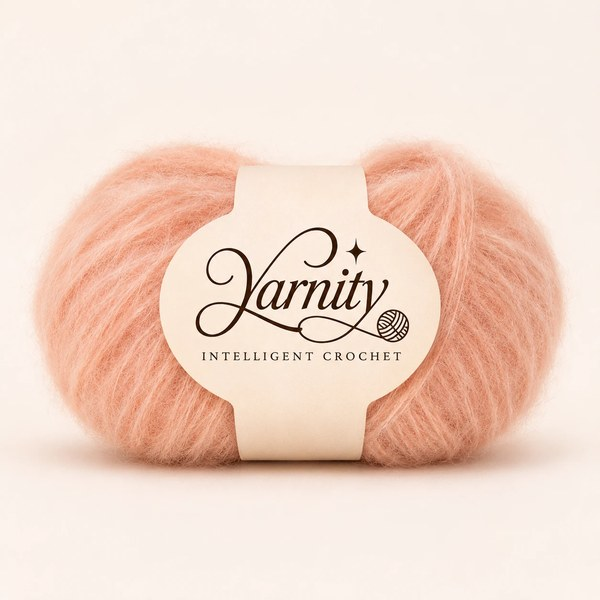
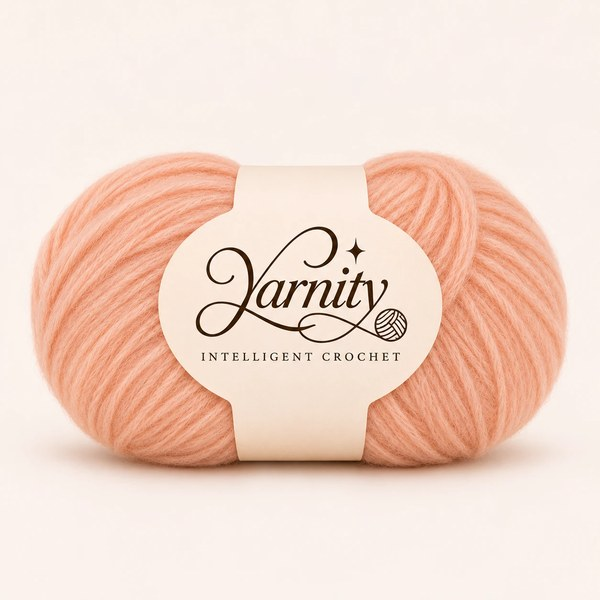
실 도감 (Kim): seven more ChatGPT-made yarn balls, padded to square in their own background; 부클레, 폴리에스터 and 수세미실 removed - 날개사 is the polyester scrubber yarn (text rewritten, 수세미 guide points to it)

diff --git a/src/data/dictionary/yarns.ts b/src/data/dictionary/yarns.ts
@@ -44,16 +44,11 @@ export const YARNS: Yarn[] = [
   {
     id: "acrylic", image: "/dictionary/yarns/acrylic.jpg", name: "아크릴", nameEn: "Acrylic", group: "synthetic", short: "저렴하고 관리가 쉬움", seasons: ["spring", "summer", "autumn", "winter"],
     traits: { warmth: 3, stretch: 3, softness: 3, care: 5, price: 1 },
-    about: "석유에서 만든 합성 섬유로 울과 비슷한 촉감을 냅니다. 값이 싸고 색이 다양하며, 세탁기에 빨아도 줄어들지 않아 연습용, 담요, 인형, 수세미실로 많이 씁니다.",
+    about: "석유에서 만든 합성 섬유로 울과 비슷한 촉감을 냅니다. 값이 싸고 색이 다양하며, 세탁기에 빨아도 줄어들지 않아 연습용, 담요, 인형으로 많이 씁니다.",
     caution: "열에 약해 다리미를 직접 대면 녹거나 광택이 죽습니다(스팀은 띄워서). 보풀과 정전기가 생기기 쉽고, 울만큼 숨을 쉬지 못해 오래 입으면 덥게 느껴질 수 있습니다.",
   },
 
-  {
-    id: "boucle", image: "/dictionary/yarns/boucle.jpg", name: "부클레", nameEn: "Bouclé", group: "special", short: "고리가 동글동글 맺힌 실", seasons: ["autumn", "winter"],
-    traits: { warmth: 4, stretch: 2, softness: 4, care: 2, price: 3 },
-    about: "실을 꼴 때 한 가닥을 느슨하게 넣어 작은 고리가 송글송글 맺히게 만든 실입니다. 단순한 뜨기만으로도 양털 같은 입체감이 나서 겉옷, 쿠션, 인형에 잘 어울립니다.",
-    caution: "고리 때문에 코가 잘 보이지 않고 바늘이 고리에 걸리기 쉬워 첫 작품에는 어렵습니다. 끝이 둥근 바늘을 쓰고, 코 수를 자주 셉니다. 한 번 뜬 것을 풀기도 어렵습니다.",
-  },
+
   {
     id: "silk", image: "/dictionary/yarns/silk.jpg", name: "실크", nameEn: "Silk", group: "animal", short: "은은한 광택, 매끄러움", seasons: ["spring", "autumn"],
     traits: { warmth: 3, stretch: 1, softness: 5, care: 1, price: 5 },
@@ -72,12 +67,7 @@ export const YARNS: Yarn[] = [
     about: "아주 질기고 잘 닳지 않는 합성 섬유입니다. 단독으로보다는 울에 20~25%쯤 섞어 양말실로 많이 쓰고, 신축성이 좋아 모양이 잘 돌아옵니다. 광택 있는 끈실로도 만들어집니다.",
     caution: "열에 약해 다리미를 직접 대면 녹을 수 있습니다. 땀을 잘 흡수하지 못해 100% 나일론 옷은 덥고 답답할 수 있습니다.",
   },
-  {
-    id: "polyester", image: "/dictionary/yarns/polyester.jpg", name: "폴리에스터", nameEn: "Polyester", group: "synthetic", short: "가볍고 형태가 잘 유지됨", seasons: ["spring", "summer", "autumn", "winter"],
-    traits: { warmth: 2, stretch: 2, softness: 3, care: 5, price: 1 },
-    about: "가장 흔한 합성 섬유로 가볍고 질기며 구김이 잘 가지 않습니다. 물을 머금지 않아 빨리 마르고, 형태가 잘 유지되어 가방실, 수세미실 등 여러 실의 재료가 됩니다. 재활용 페트병으로 만든 폴리에스터 실도 있습니다.",
-    caution: "열에 약해 높은 온도의 다리미나 건조기는 피합니다. 정전기가 잘 생기고, 땀을 흡수하지 못해 옷으로 입으면 덥게 느껴질 수 있습니다.",
-  },
+
   {
     id: "bamboo", image: "/dictionary/yarns/bamboo.jpg", name: "대나무", nameEn: "Bamboo (viscose)", group: "plant", short: "시원하고 실크처럼 매끄러움", seasons: ["spring", "summer"],
     traits: { warmth: 1, stretch: 1, softness: 5, care: 3, price: 3 },
@@ -85,9 +75,9 @@ export const YARNS: Yarn[] = [
     caution: "물에 젖으면 약해지고 무거워져 편물이 늘어나기 쉽습니다. 비틀어 짜지 말고 눌러 물기를 뺀 뒤 눕혀 말립니다.",
   },
   {
-    id: "nalgae", image: "/dictionary/yarns/nalgae.jpg", name: "날개사", nameEn: "Brushed scrubber yarn", group: "synthetic", short: "잔털이 많은 수세미실", seasons: ["spring", "summer", "autumn", "winter"],
+    id: "nalgae", image: "/dictionary/yarns/nalgae.jpg", name: "날개사", nameEn: "Polyester scrubber yarn", group: "synthetic", short: "반짝이는 폴리에스터 수세미실", seasons: ["spring", "summer", "autumn", "winter"],
     traits: { warmth: 2, stretch: 2, softness: 2, care: 5, price: 1 },
-    about: "아크릴 같은 합성 섬유에 잔털이 날개처럼 붙어 있는 실입니다. 까슬까슬한 잔털이 거품을 잘 내고 때를 잘 닦아 주로 수세미를 뜰 때 씁니다. 반짝이는 펄이 섞인 것도 있고, '솔잎사'라고도 부릅니다.",
+    about: "폴리에스터 심 실에 가늘고 짧은 잔털이 날개처럼 촘촘히 붙은 실로, 흔히 '수세미실'이라고 하면 이 실을 말합니다. 까슬까슬한 잔털이 거품을 잘 내고 기름때를 잘 닦으며, 폴리에스터라 물을 머금지 않아 빨리 마르고 오래 써도 모양이 잘 유지됩니다. 펄이 섞여 반짝이는 것이 많습니다.",
     caution: "털 때문에 코가 잘 보이지 않아 처음 뜨는 사람에게는 어렵습니다. 단수링을 자주 걸고, 한 번 뜬 것을 풀면 털이 엉키니 천천히 풉니다.",
   },
   {
@@ -148,15 +138,10 @@ export const YARNS: Yarn[] = [
   {
     id: "poodle", image: "/dictionary/yarns/poodle.jpg", name: "푸들사", nameEn: "Poodle yarn", group: "special", short: "푸들 털처럼 곱슬곱슬", seasons: ["autumn", "winter"],
     traits: { warmth: 4, stretch: 2, softness: 4, care: 3, price: 2 },
-    about: "작은 고리가 촘촘히 뭉쳐 푸들 털처럼 곱슬곱슬한 실입니다. 부클레보다 고리가 더 작고 빽빽해서, 짧은뜨기만 해도 양털 인형 같은 결이 나옵니다. 곰 인형, 모자, 가방, 쿠션에 많이 씁니다.",
+    about: "작은 고리가 촘촘히 뭉쳐 푸들 털처럼 곱슬곱슬한 실입니다. 고리가 작고 빽빽해서 짧은뜨기만 해도 양털 인형 같은 결이 나옵니다. 곰 인형, 모자, 가방, 쿠션에 많이 씁니다.",
     caution: "고리 때문에 코가 거의 보이지 않아 코 수를 세기 어렵습니다. 단수링을 자주 걸고, 한 번 뜬 것을 풀면 고리가 엉키니 천천히 풉니다.",
   },
-  {
-    id: "scrubber", image: "/dictionary/yarns/scrubber.jpg", name: "수세미실", nameEn: "Acrylic scrubber yarn", group: "synthetic", short: "세제 없이도 잘 닦임", seasons: ["spring", "summer", "autumn", "winter"],
-    traits: { warmth: 1, stretch: 2, softness: 2, care: 5, price: 1 },
-    about: "아크릴로 만든 수세미 전용 실입니다. 아크릴 섬유가 기름때를 잘 잡아 세제를 적게 써도 설거지가 잘 되고, 물이 금방 빠져 빨리 마릅니다. 색이 다양하고 값이 싸서 첫 작품으로 많이 뜹니다.",
-    caution: "열에 약해 뜨거운 물에 삶으면 줄거나 뻣뻣해집니다. 쓰고 나서 물기를 짜 잘 말리고, 낡으면 새로 뜹니다.",
-  },
+
 
   {
     id: "metal", image: "/dictionary/yarns/metal.jpg", name: "메탈사", nameEn: "Metallic tape yarn", group: "special", short: "통째로 반짝이는 테이프 실", seasons: ["spring", "summer", "autumn", "winter"],

diff --git a/src/data/dictionary/projects.ts b/src/data/dictionary/projects.ts
@@ -10,8 +10,8 @@ export const PROJECTS: ProjectGuide[] = [
     more: "머리 둘레보다 5~10% 작게 떠야 쓰고 있을 때 흘러내리지 않습니다. 시작은 고무뜨기로 단단하게, 몸통은 메리야스나 무늬뜨기로 올리고, 꼭대기는 일정한 간격으로 줄여 모읍니다. 코가 줄어 줄바늘에 걸리지 않으면 장갑바늘로 옮깁니다." },
   { id: "doll", name: "인형", craft: "crochet", level: "보통", yarns: "면 · 아크릴", tip: "솜이 안 보이게 촘촘히", icon: "doll", hook: "실 권장보다 0.5~1mm 가는 코바늘",
     more: "인형(아미구루미)은 매직링에서 시작해 나선형으로 이어 뜹니다. 단의 첫 코에 단수링을 걸어 단을 셉니다. 솜이 비치지 않도록 바늘을 가늘게 써서 촘촘히 뜨고, 머리와 몸은 솜을 넣으며 닫습니다. 아이용이라면 플라스틱 눈 대신 실로 수를 놓습니다." },
-  { id: "scrubber", name: "수세미", craft: "crochet", level: "쉬움", yarns: "아크릴 수세미실", tip: "첫 작품으로 좋음", icon: "scrubber", firstProject: true, hook: "4~5mm 코바늘",
-    more: "아크릴 수세미실은 세제 없이도 기름때가 잘 닦이고 빨리 마릅니다. 사슬뜨기와 짧은뜨기만으로 원형이나 사각을 떠 보며 코 세기와 늘림을 익히기 좋습니다. 손바닥만 한 크기(지름 12cm 안팎)가 쓰기 편합니다." },
+  { id: "scrubber", name: "수세미", craft: "crochet", level: "쉬움", yarns: "날개사 (폴리에스터 수세미실)", tip: "첫 작품으로 좋음", icon: "scrubber", firstProject: true, hook: "4~5mm 코바늘",
+    more: "날개사(폴리에스터 수세미실)는 세제 없이도 기름때가 잘 닦이고 빨리 마릅니다. 사슬뜨기와 짧은뜨기만으로 원형이나 사각을 떠 보며 코 세기와 늘림을 익히기 좋습니다. 손바닥만 한 크기(지름 12cm 안팎)가 쓰기 편합니다." },
   { id: "socks", name: "양말", craft: "knit", level: "어려움", yarns: "울 + 나일론 양말실", tip: "장갑바늘 · 줄바늘", icon: "sock", hook: "2.25~2.75mm 장갑바늘 또는 매직루프용 긴 줄바늘",
     more: "양말실은 울에 나일론을 섞어 닳지 않게 만든 가는 실입니다. 발목부터 뜨는 방법과 발끝부터 뜨는 방법이 있고, 뒤꿈치를 만드는 단계가 가장 어렵습니다. 발에 꼭 맞아야 하니 발 둘레보다 10% 작게 뜹니다." },
   { id: "coaster", name: "코스터", craft: "crochet", level: "쉬움", yarns: "면", tip: "원형 · 사각 연습용", icon: "coaster", hook: "3~4mm 코바늘",

diff --git a/docs/credits/yarn-photos.md b/docs/credits/yarn-photos.md
@@ -12,26 +12,23 @@
 | cotton.jpg | 면 | Kim이 ChatGPT로 만든 이미지 |
 | linen.jpg | 린넨 | Kim이 ChatGPT로 만든 이미지 |
 | acrylic.jpg | 아크릴 | Kim이 ChatGPT로 만든 이미지 |
-| boucle.jpg | 부클레 | https://unsplash.com/photos/0EpEN-1bU_8 |
 | silk.jpg | 실크 | Kim이 ChatGPT로 만든 이미지 |
 | cashmere.jpg | 캐시미어 | Kim이 ChatGPT로 만든 이미지 |
-| nylon.jpg | 나일론 | https://unsplash.com/photos/q2rwcbQEUQ4 (편물 부분만 확대해 자르고 오른쪽으로 90° 돌림) |
-| polyester.jpg | 폴리에스터 | https://unsplash.com/photos/-5gx3fOCkb8 |
-| nalgae.jpg | 날개사 | Kim이 직접 찍은 사진 |
+| nylon.jpg | 나일론 | Kim이 ChatGPT로 만든 이미지 |
+| nalgae.jpg | 날개사 | Kim이 ChatGPT로 만든 이미지 |
 | merino.jpg | 메리노 울 | https://unsplash.com/photos/Jsoc9j82ErY (스웨터 몸판만 확대해 자름) |
-| mink.jpg | 밍크사 | Kim이 직접 찍은 사진 |
+| mink.jpg | 밍크사 | Kim이 ChatGPT로 만든 이미지 |
 | chenille.jpg | 셔닐 · 벨벳사 | Kim이 ChatGPT로 만든 이미지 |
 | angora.jpg | 앙고라 | Kim이 ChatGPT로 만든 이미지 |
 | tweed.jpg | 트위드사 | https://unsplash.com/photos/lY0MpDoh2BA |
-| bamboo.jpg | 대나무 | https://unsplash.com/photos/OQrZQ80eNM4 |
+| bamboo.jpg | 대나무 | Kim이 ChatGPT로 만든 이미지 |
 | jute.jpg | 황마 | https://unsplash.com/photos/hh2ulVuYbcw |
-| fabric.jpg | 패브릭얀 | https://unsplash.com/photos/neCu4YrL5F4 |
-| raffia.jpg | 라피아 | https://unsplash.com/photos/THJU51SiY6s (짠 부분만 확대해 자름) |
+| fabric.jpg | 패브릭얀 | Kim이 ChatGPT로 만든 이미지 |
+| raffia.jpg | 라피아 | Kim이 ChatGPT로 만든 이미지 |
 | tencel.jpg | 텐셀 | https://unsplash.com/photos/JDwEVCVyBWs (니트 탑의 등판만 확대해 자름) |
 | hemp.jpg | 헴프 | https://unsplash.com/photos/ieppoqQTIto (가방 편물만 확대해 자름) |
 | poodle.jpg | 푸들사 | Kim이 직접 찍은 사진 |
 | loop.jpg | 루프얀 | https://unsplash.com/photos/-yHaS_K1xgw |
-| scrubber.jpg | 수세미실 | https://unsplash.com/photos/zNmBA5eSwp0 (벽에 걸린 수세미만 크게 확대해 자름) |
 | metal.jpg | 메탈사 | Kim이 직접 찍은 사진 |
 
 사진은 그 실과 질감이 비슷한 편물을 가까이 찍은 것이에요. 사진 설명에 실의 소재가 적혀 있지 않아서, 실제로 그 소재로 뜬 편물이라는 보장은 없어요.
